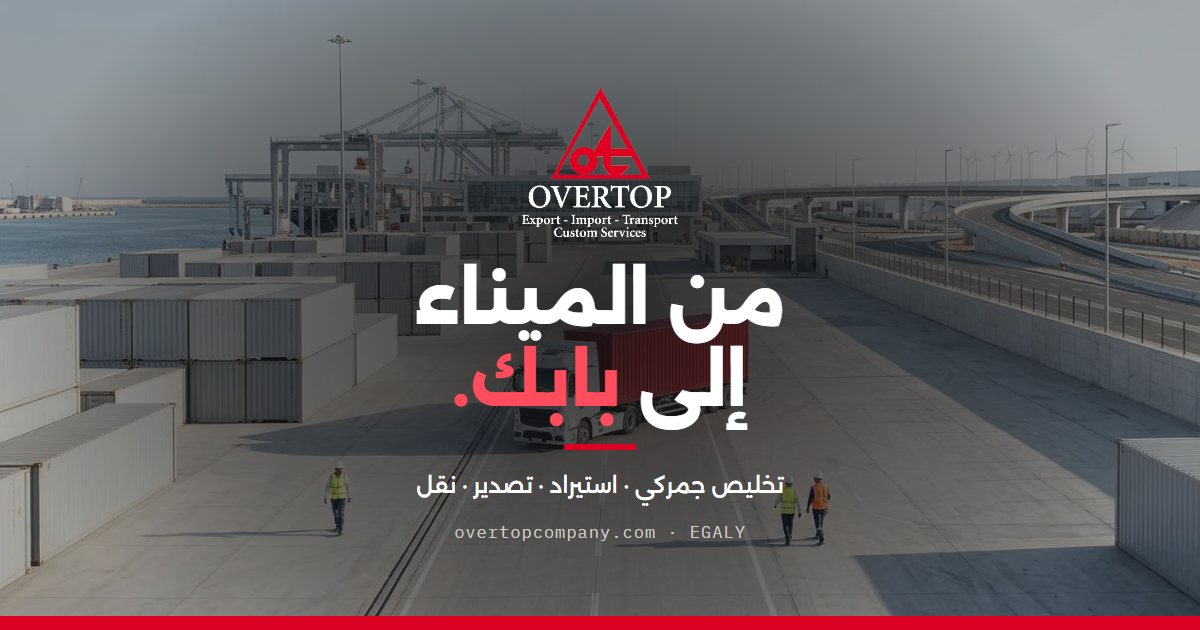
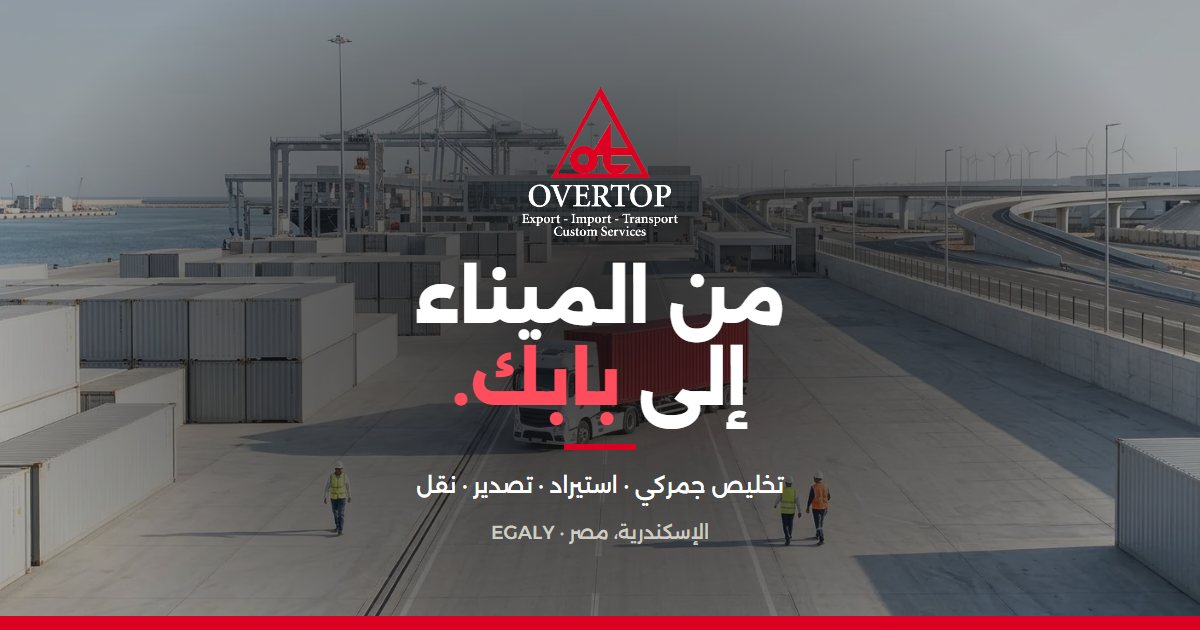
Keep serving from GitHub Pages until overtopcompany.com is ready
- VITE_SITE_URL back to https://nabilelnour15.github.io/overtop-website/
- Web manifest uses relative paths so it works on any base path
- Share cards show "Alexandria, Egypt" (localized) instead of the domain

diff --git a/website/scripts/share-card/card.html b/website/scripts/share-card/card.html
@@ -39,6 +39,7 @@
         font-family: 'IBM Plex Mono', monospace; font-size: 19px; letter-spacing: .06em; text-transform: uppercase;
       }
       .place { font-family: 'IBM Plex Mono', monospace; font-size: 17px; letter-spacing: .06em; color: #cfccc4; }
+      [lang='ar'] .place { font-family: 'Alexandria', sans-serif; font-size: 19px; letter-spacing: 0; }
       .bar { position: absolute; left: 0; right: 0; bottom: 0; height: 14px; background: #dc0023; }
 
       [lang='ar'] .card { font-family: 'Alexandria', sans-serif; }
@@ -55,7 +56,7 @@
         <h1 id="title"></h1>
         <div class="rule"></div>
         <p class="services" id="services"></p>
-        <p class="place">overtopcompany.com · EGALY</p>
+        <p class="place" id="place"></p>
       </div>
       <div class="bar"></div>
     </div>
@@ -64,10 +65,12 @@
         en: {
           title: 'From the quay<br />to your <em>door.</em>',
           services: 'Customs clearance · Import · Export · Transport',
+          place: 'Alexandria, Egypt · EGALY',
         },
         ar: {
           title: 'من الميناء<br />إلى <em>بابك.</em>',
           services: 'تخليص جمركي · استيراد · تصدير · نقل',
+          place: 'الإسكندرية، مصر · EGALY',
         },
       }
       const lang = new URLSearchParams(location.search).get('lang') === 'ar' ? 'ar' : 'en'
@@ -75,6 +78,7 @@
       document.documentElement.dir = lang === 'ar' ? 'rtl' : 'ltr'
       document.getElementById('title').innerHTML = copy[lang].title
       document.getElementById('services').textContent = copy[lang].services
+      document.getElementById('place').textContent = copy[lang].place
     </script>
   </body>
 </html>
